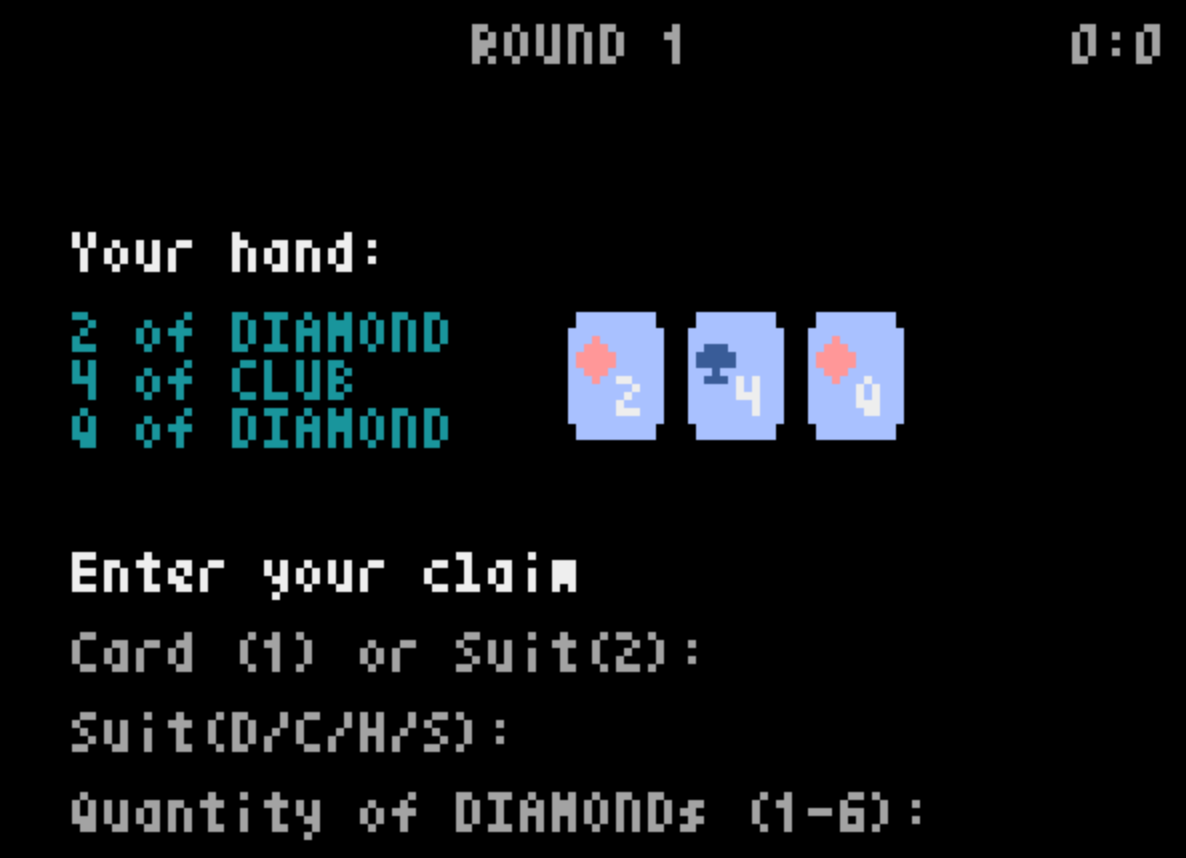
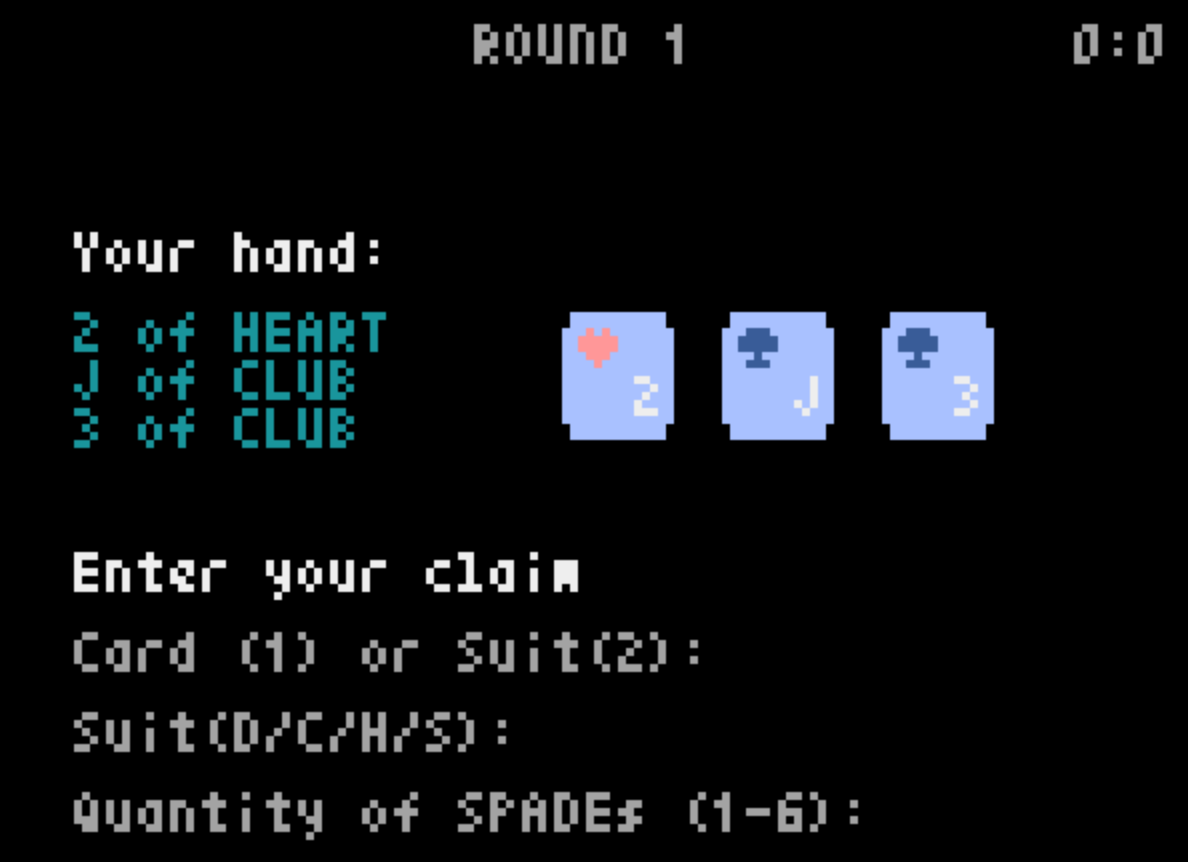
ui improvements

diff --git a/GameUI.py b/GameUI.py
@@ -1,10 +1,12 @@
 ##3: update play scene
+# click 1 or 2 changes the claim type and screen display
 
 import pyxel
 from BS_Poker import BSGame
 from textwrap import wrap
 import util
 from util import CARDS, CARDS_DICT, INV_CARDS_DICT, SUITS, SUITS_DICT, INV_SUITS_DICT
+from nn import Baby, make_and_verify_guess # :)
 
 SCREEN_W = 150
 SCREEN_L = 200
@@ -51,6 +53,11 @@ class App:
         #import title page image
         pyxel.load("assets/poker_vectors.pyxres")
         pyxel.run(self.update, self.draw)
+        #initialize agent
+        baby_object = Baby()
+        model = baby_object.build_model()
+        agent = baby_object.build_agent()
+        agent.compile(Adam(lr=1e-3), metrics=['mae']) #mean absolute error
 
     def update(self):
         if pyxel.btnp(pyxel.KEY_Q):
@@ -90,6 +97,22 @@ class App:
                     self.bsgame.claim_card = 2
                 if pyxel.btnp(pyxel.KEY_S):
                     self.bsgame.claim_card = 3
+         
+         #claim quantity
+        if self.bsgame.claim_card:
+            if pyxel.btnp(pyxel.KEY_1):
+                self.bsgame.claim_quantity = 1
+            if pyxel.btnp(pyxel.KEY_2):
+                self.bsgame.claim_quantity = 2
+            if pyxel.btnp(pyxel.KEY_3):
+                self.bsgame.claim_quantity = 3
+            if pyxel.btnp(pyxel.KEY_4):
+                self.bsgame.claim_quantity = 4
+            if pyxel.btnp(pyxel.KEY_5):
+                self.bsgame.claim_quantity = 5
+            if pyxel.btnp(pyxel.KEY_6):
+                self.bsgame.claim_quantity = 6
+
         ##3
 
     def update_gameover_scene(self):
@@ -124,23 +147,36 @@ class App:
             hand = self.bsgame.get_player1_hands()
         elif player_n == 2:
             hand = self.bsgame.get_player2_hands()
-        suit_coords = []
-        card_vals = []
+
         for p_card in hand:
-            suit_coords.append(SUIT_POSITIONS[p_card[1]])
-            card_vals.append(CARDS_DICT[p_card[0]])
+            suit_coords = SUIT_POSITIONS[p_card[1]]
+            card_val = (CARDS_DICT[p_card[0]])
+            pyxel.blt(x, y, 0, 16, 16, 16, 16)
+            pyxel.blt(x + 3, y + 2, 0, suit_coords[0], suit_coords[1], 6, 6) #card suit 
+            #card number
+            i = 2
+            if card_val == 10:
+                i = 0
+            pyxel.text(x + 8 + i, y + 8, card_val, 7) 
+            x += 20
 
-        pyxel.blt(x, y, 0, 16, 16, 16, 16)
-        pyxel.blt(x + 3, y + 3, 0, suit_coords[0][0], suit_coords[0][1], 6, 6) #suit
-        pyxel.text(x + 3 + 5, y + 3 + 5, str(card_vals[0]), 7) 
+        # suit_coords = []
+        # card_vals = []
+        # for p_card in hand:
+        #     suit_coords.append(SUIT_POSITIONS[p_card[1]])
+        #     card_vals.append(CARDS_DICT[p_card[0]])
 
-        pyxel.blt(x + 15, y, 0, 16, 16, 16, 16)
-        pyxel.blt(x + 15 + 3, y + 3, 0, suit_coords[1][0], suit_coords[1][1], 6, 6) #suit
-        pyxel.text(x + 15 + 3 + 5, y + 3 + 5, str(card_vals[1]), 7) ###
+        # pyxel.blt(x, y, 0, 16, 16, 16, 16)
+        # pyxel.blt(x + 3, y + 3, 0, suit_coords[0][0], suit_coords[0][1], 6, 6) #suit
+        # pyxel.text(x + 3 + 5, y + 3 + 5, str(card_vals[0]), 7) 
 
-        pyxel.blt(x + 30, y, 0, 16, 16, 16, 16)
-        pyxel.blt(x + 30 + 3, y + 3, 0, suit_coords[2][0], suit_coords[2][1], 6, 6) #suit
-        pyxel.text(x + 30 + 3 + 5, y + 3 + 5, str(card_vals[2]), 7) ###
+        # pyxel.blt(x + 15, y, 0, 16, 16, 16, 16)
+        # pyxel.blt(x + 15 + 3, y + 3, 0, suit_coords[1][0], suit_coords[1][1], 6, 6) #suit
+        # pyxel.text(x + 15 + 3 + 5, y + 3 + 5, str(card_vals[1]), 7) ###
+
+        # pyxel.blt(x + 30, y, 0, 16, 16, 16, 16)
+        # pyxel.blt(x + 30 + 3, y + 3, 0, suit_coords[2][0], suit_coords[2][1], 6, 6) #suit
+        # pyxel.text(x + 30 + 3 + 5, y + 3 + 5, str(card_vals[2]), 7) ###
 
 
     def draw_title_scene(self):
